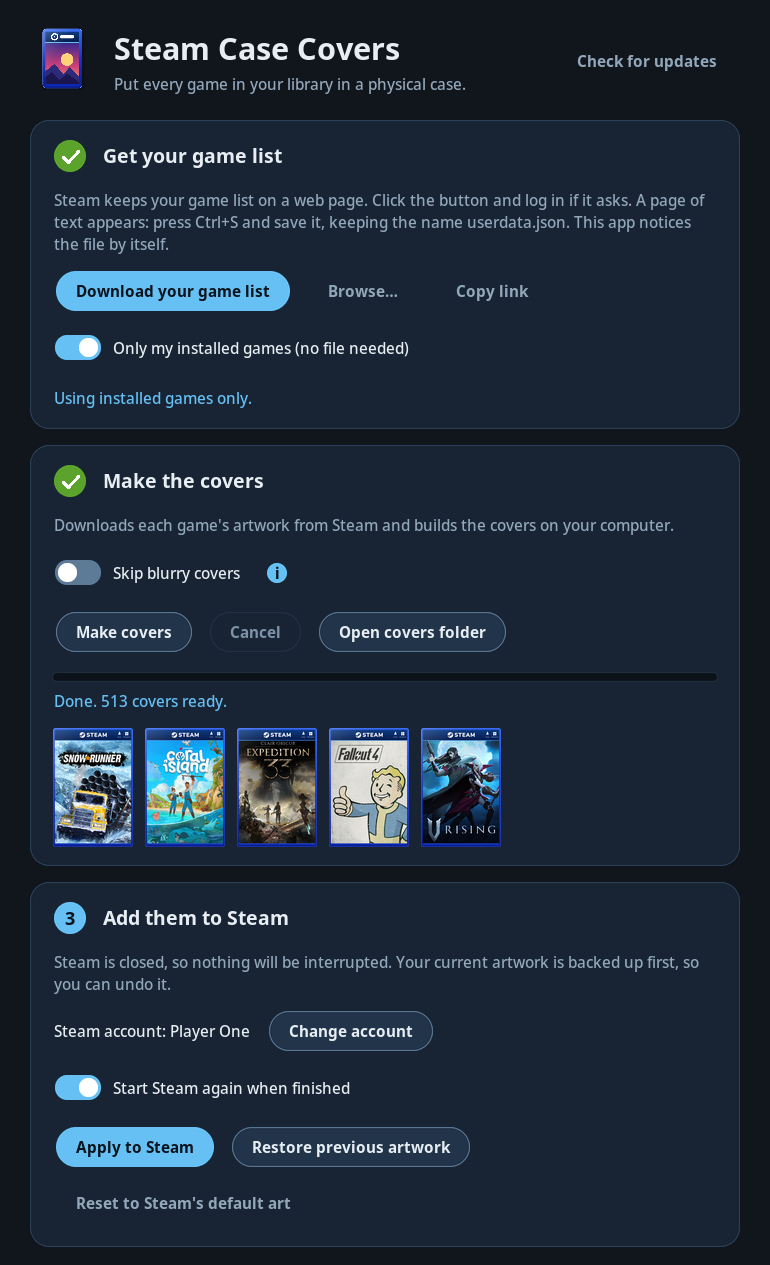
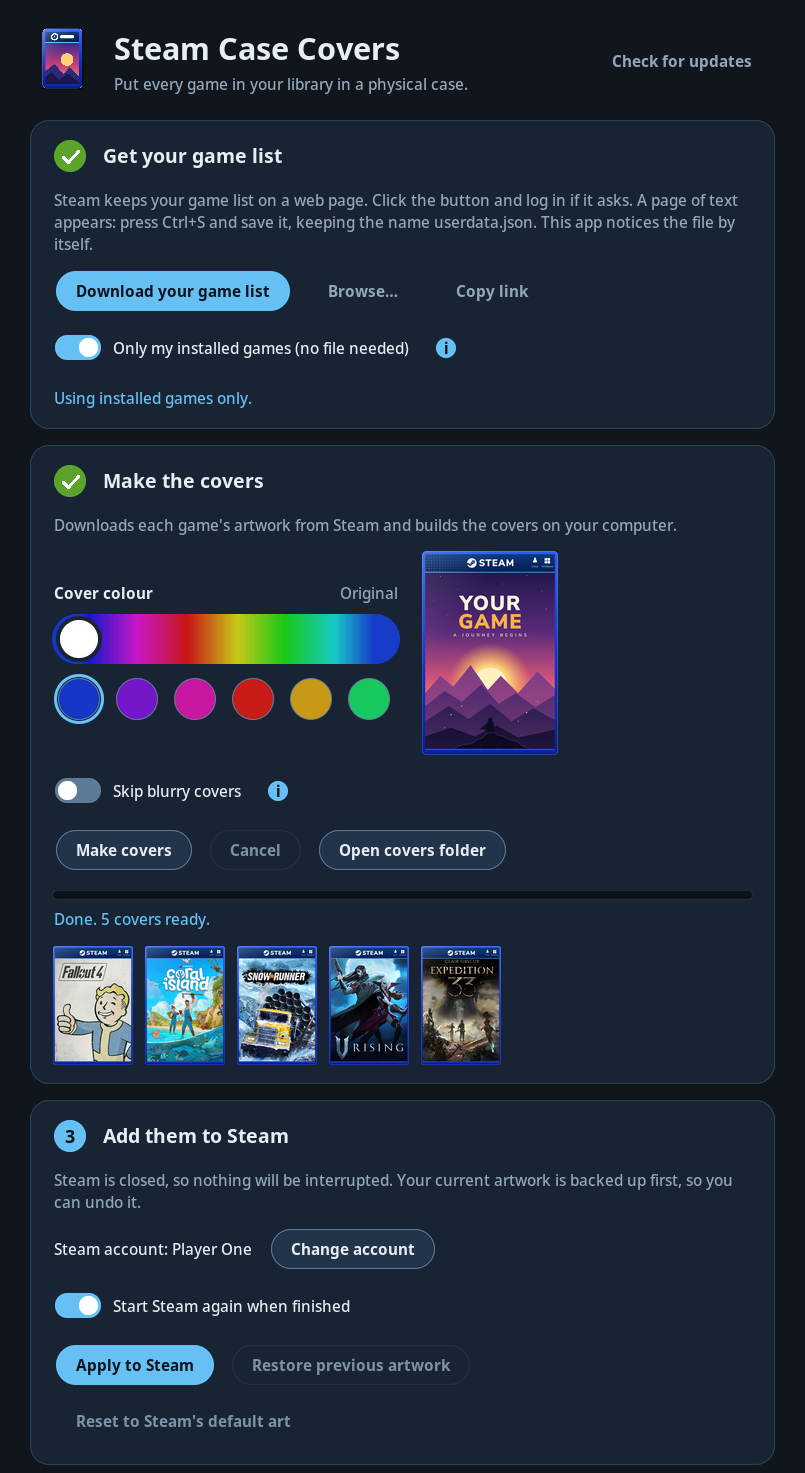
docs: refresh the README for colours, family games and the new window screenshot (#11)

Changed region(s): [[0.0312, 0.0, 0.9351, 0.9866], [0.7481, 0.0308, 0.9351, 0.0617], [0.5299, 0.2158, 0.561, 0.2466]]

diff --git a/README.md b/README.md
@@ -38,7 +38,7 @@
 
 ## What is it?
 
-Steam shows your library as tall portrait cards. This tool puts each game's own artwork inside a blue "box" with a Steam banner and platform badges, like a boxed console game, and installs the result as your custom artwork.
+Steam shows your library as tall portrait cards. This tool puts each game's own artwork inside a "box" (blue by default, or any colour you pick) with a Steam banner and platform badges, like a boxed console game, and installs the result as your custom artwork.
 
 The artwork comes from Steam's own servers. The covers are built on your computer and stay there.
 
@@ -97,7 +97,7 @@ chmod +x SteamCaseCovers-linux
 <details id="from-source">
 <summary><b>From source (any system)</b></summary>
 
-If you'd rather not trust a download, run it from the code. It needs Python 3.8+ and Pillow 10.3 or newer.
+If you'd rather not trust a download, run it from the code. It needs Python 3 and Pillow 10.3 or newer (the release builds and the automated tests use Python 3.12; older versions down to 3.8 are expected to work but are not tested).
 
 ```bash
 git clone https://github.com/diegobergonsi/steam-case-covers
@@ -114,8 +114,8 @@ Release files come with a `SHA256SUMS` list so you can check what you downloaded
 
 ## How it works
 
-1. **Get your game list.** Click **Download your game list**. Your browser opens Steam: log in if it asks, and you'll land on a page of plain text. Save it (Ctrl+S, or Cmd+S on a Mac) as `userdata.json`. The app notices the file by itself. No browser opening? Click **Copy link** and paste it yourself. Or tick **Only my installed games** to skip this step. On a Mac with Safari, set the format to **Page Source** when saving (or use Chrome or Firefox).
-2. **Make the covers.** Click **Make covers** and wait. You can cancel and run it again later: finished covers are kept, so it picks up where it stopped.
+1. **Get your game list.** Click **Download your game list**. Your browser opens Steam: log in if it asks, and you'll land on a page of plain text. Save it (Ctrl+S, or Cmd+S on a Mac) as `userdata.json`. The app notices the file by itself. No browser opening? Click **Copy link** and paste it yourself. Or tick **Only my installed games** to skip this step: games that are not installed on this computer, including games shared by a family member, are then left out (hover the **i** next to it). On a Mac with Safari, set the format to **Page Source** when saving (or use Chrome or Firefox).
+2. **Make the covers.** Optionally pick the colour of the cases first: drag the colour slider or tap a swatch, and the preview shows the result. Then click **Make covers** and wait. You can cancel and run it again later: finished covers are kept, so it picks up where it stopped. If you already made covers in another colour, the app asks before it replaces them.
 3. **Add them to Steam.** Click **Apply to Steam**. If more than one Steam account is on this computer, the window shows which one will change; click **Change account** to pick another.
 
 > [!WARNING]
@@ -154,7 +154,7 @@ If you find a security problem, please [report it privately](SECURITY.md).
 ## Steam compatibility
 
 ✅ Linux and SteamOS (Steam in `~/.local/share/Steam`) <br>
-✅ Windows: tested by the author's colleague on a real PC, and the automated tests pass <br>
+✅ Windows: an early version (0.9.11) was tested by the author's colleague on a real PC; newer versions, including the colour slider and the family corner, are covered by the automated tests only <br>
 🟡 macOS: tested on one Apple Silicon Mac (best effort)
 
 > [!NOTE]
@@ -181,6 +181,8 @@ python steamcase.py reset --everything             # ...also removing art from o
 | `run` | `make` then `apply` |
 | `restore` | Undo the last apply (run again to go further back) |
 | `reset` | Remove the covers this app made from Steam (`--everything` also removes custom art from other sources) |
+
+`list` marks games from your Steam Family library with `(family)`. `make` keeps the colour of the covers already in the folder unless you pass `--hue` (`--hue 0` asks for the original blue).
 
 Run `python steamcase.py -h` for all options, such as `--only`, `--hue`, `--skip-auto-art`, `--steam-dir` and `--user` (the account's folder number in Steam's `userdata`, to pick one of several accounts).
 
@@ -211,6 +213,20 @@ Steam shows art you set by hand (or got from SteamGridDB) before these covers. *
 <summary><b>Where are the covers stored?</b></summary>
 
 In your own user folder: `~/.local/share/steamcase/covers` on Linux, `%LOCALAPPDATA%\steamcase\covers` on Windows and `~/Library/Application Support/steamcase/covers` on macOS. Use **Open covers folder** in the app. Steam's copies live in `userdata/<id>/config/grid`; copy that folder to use the covers on another computer.
+
+</details>
+
+<details>
+<summary><b>A game from my family's library got no cover</b></summary>
+
+Games shared with you through Steam Family Sharing are not on your own game list, so the app has to compare Steam's own files with your list to tell them apart. Untick **Only my installed games** and load your game list (**Download your game list**, or **Browse…** to an older `userdata.json`: it does not need to contain the shared game). The shared games then get covers with a green corner. If the list is old, games you bought after saving it may be mistaken for shared ones, so save it again after you buy games. This is only tested on a small family: please [open an issue](https://github.com/diegobergonsi/steam-case-covers/issues) if games are missing.
+
+</details>
+
+<details>
+<summary><b>What happens if I change the colour after I made covers?</b></summary>
+
+When you click **Make covers**, the app asks before it replaces the covers you already made in another colour. If you say yes, it rebuilds them all in the new colour, which downloads the artwork again. Steam keeps showing your current art until you add the new covers in step 3, and **Restore previous artwork** can undo that. There is one set of covers at a time. Only the original blue is checked for readable text: bright yellow or lime banners make the white text harder to read.
 
 </details>
 

diff --git a/THIRD_PARTY.md b/THIRD_PARTY.md
@@ -25,7 +25,7 @@ These marks appear in `assets/frame.png` only to mimic a physical box and show p
 The font and the SVG sources are only used by `tools/build_frame.py`, `tools/build_icon.py` and `tools/build_default_art.py` to render `assets/frame.png`, the icons and `assets/default_art.png`. They are not needed to run the app.
 
 ## Game artwork
-The preview image at the top of the README (`assets/preview.png`) shows covers of a few games (SnowRunner, Coral Island, Clair Obscur: Expedition 33, Fallout 4 and V Rising), and the screenshot of a Steam library further down (`assets/steam-library.png`) shows covers of about twenty games, only to show what the app produces. That artwork, and the games' names and logos, belong to their publishers and developers. They are not covered by this project's license. If a rights holder objects, the image will be removed.
+The preview image at the top of the README (`assets/preview.png`) shows covers of a few games (SnowRunner, Coral Island, Clair Obscur: Expedition 33, Fallout 4 and V Rising), the screenshot of the app window (`assets/screenshot.png`) shows the same five, and the screenshot of a Steam library further down (`assets/steam-library.png`) shows covers of about twenty games, only to show what the app produces. That artwork, and the games' names and logos, belong to their publishers and developers. They are not covered by this project's license. If a rights holder objects, the image will be removed.
 
 Apart from those images, no game artwork is included. Covers are built on your own machine from the portrait images Steam serves for games in your own library. Generated covers contain publishers' artwork: use them for personal use and do not redistribute them.
 

diff --git a/CHANGELOG.md b/CHANGELOG.md
@@ -3,6 +3,7 @@
 All notable changes. Versions follow [Semantic Versioning](https://semver.org); `0.x` versions are pre-releases.
 
 ## [Unreleased]
+- Documentation: the README has a new screenshot of the window (with the colour row and the info badge), describes the colour choice and the family-games limit in "How it works", and has new FAQ answers for family games that got no cover and for changing the colour later.
 
 ## [1.3.1] - 2026-10-26
 - An info badge (“i”) next to "Only my installed games" explains that games shared through Family Sharing, and games that are not installed, need your game list. The README says so too, and shows a new screenshot with the green family corner.
